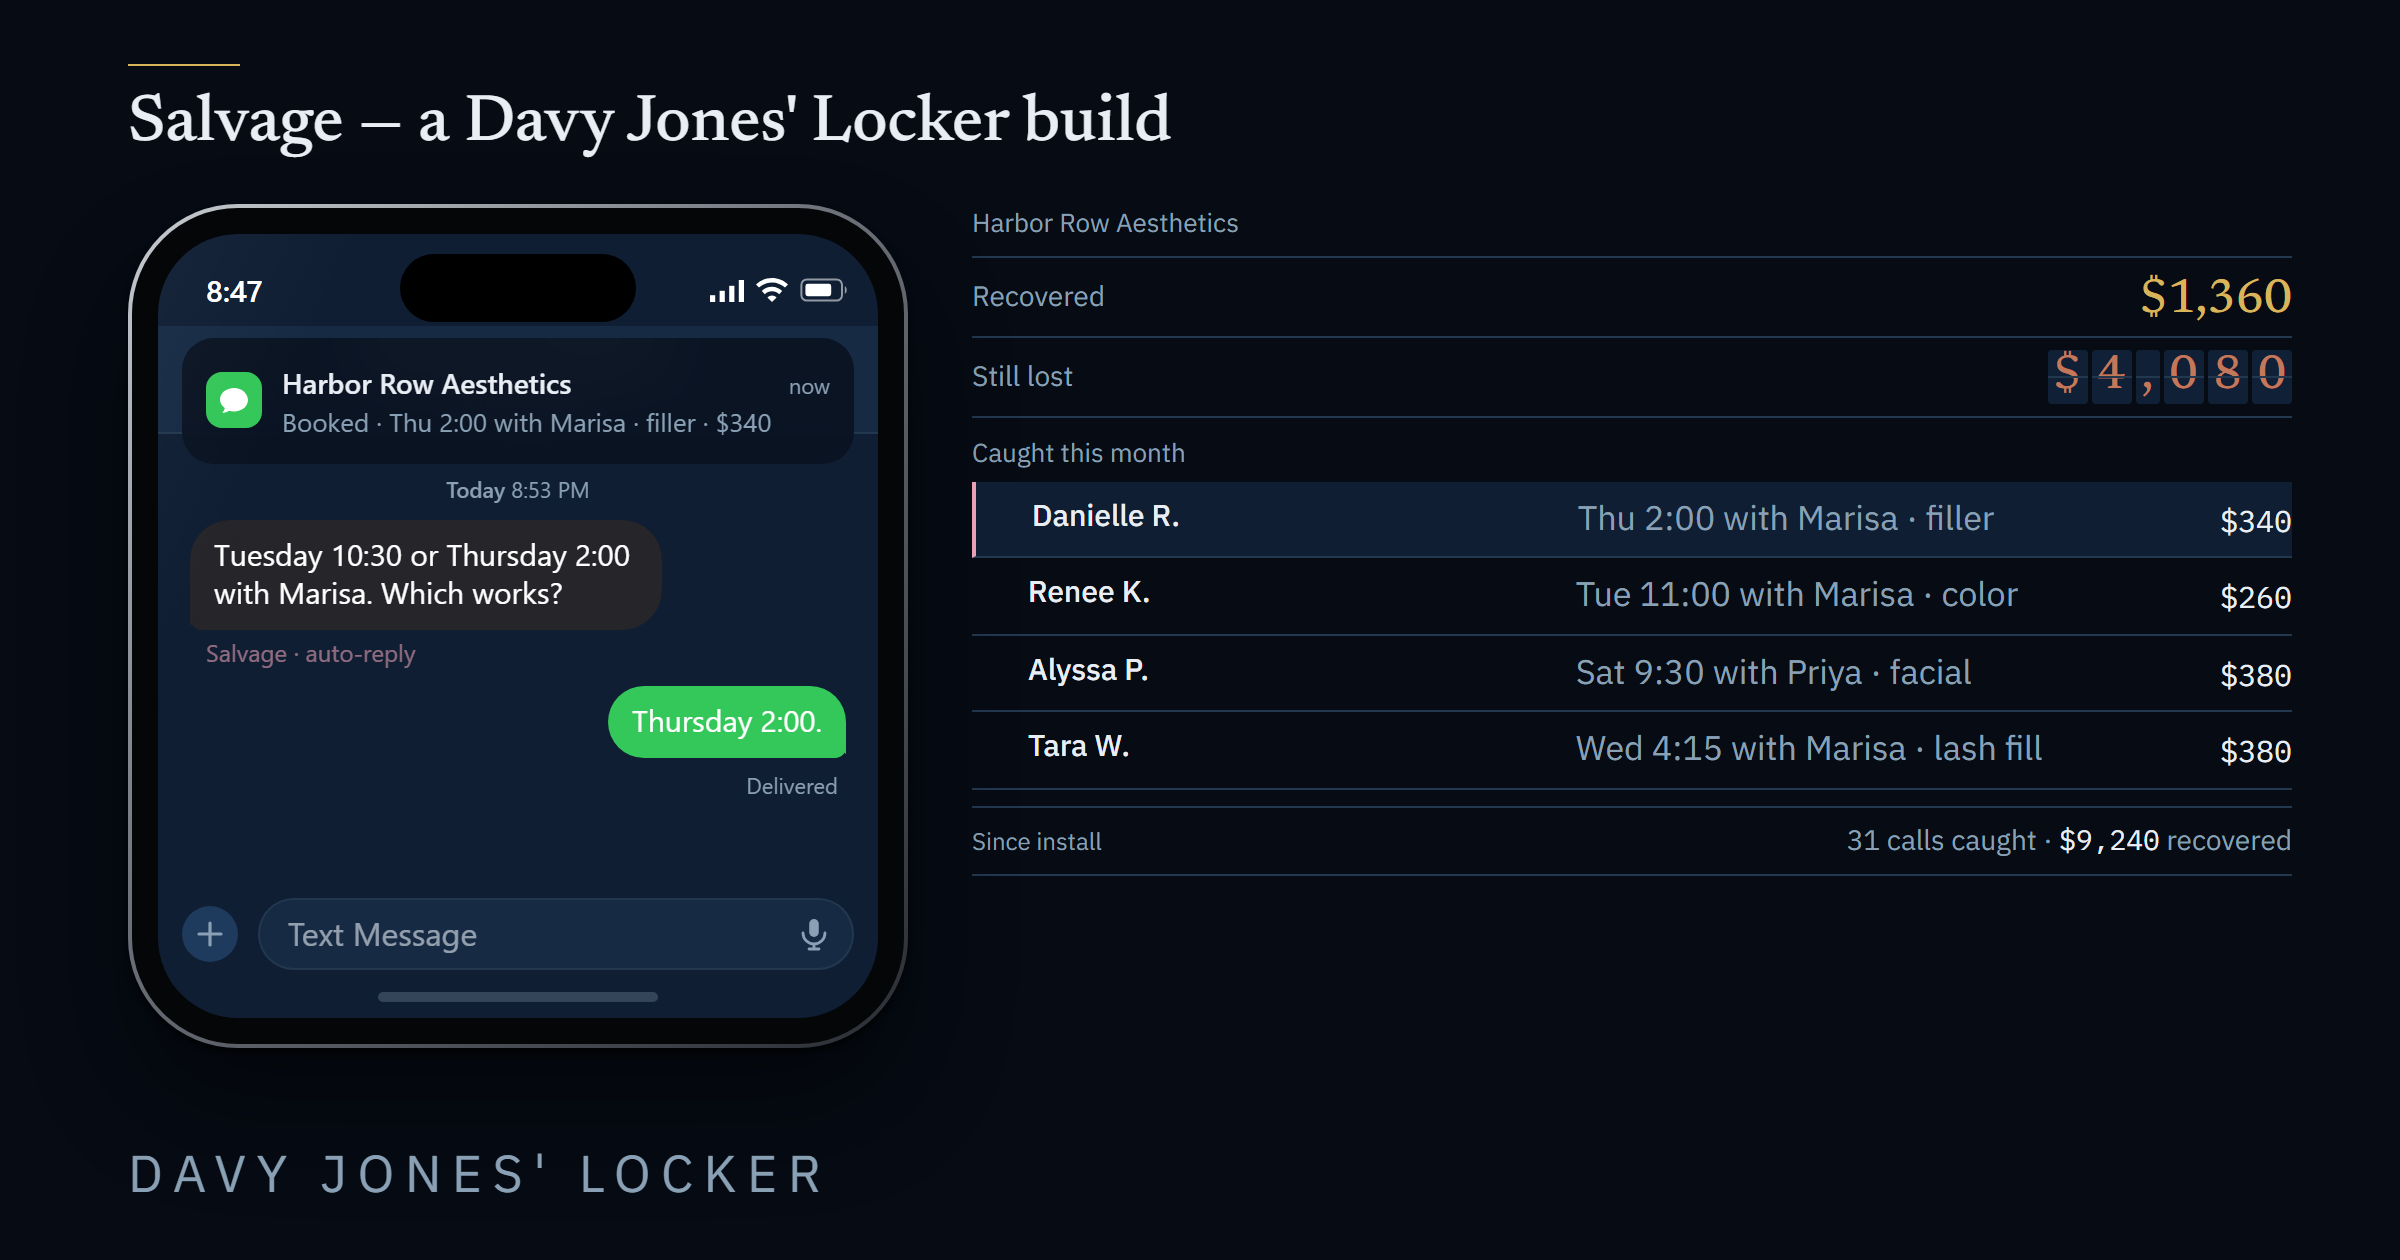
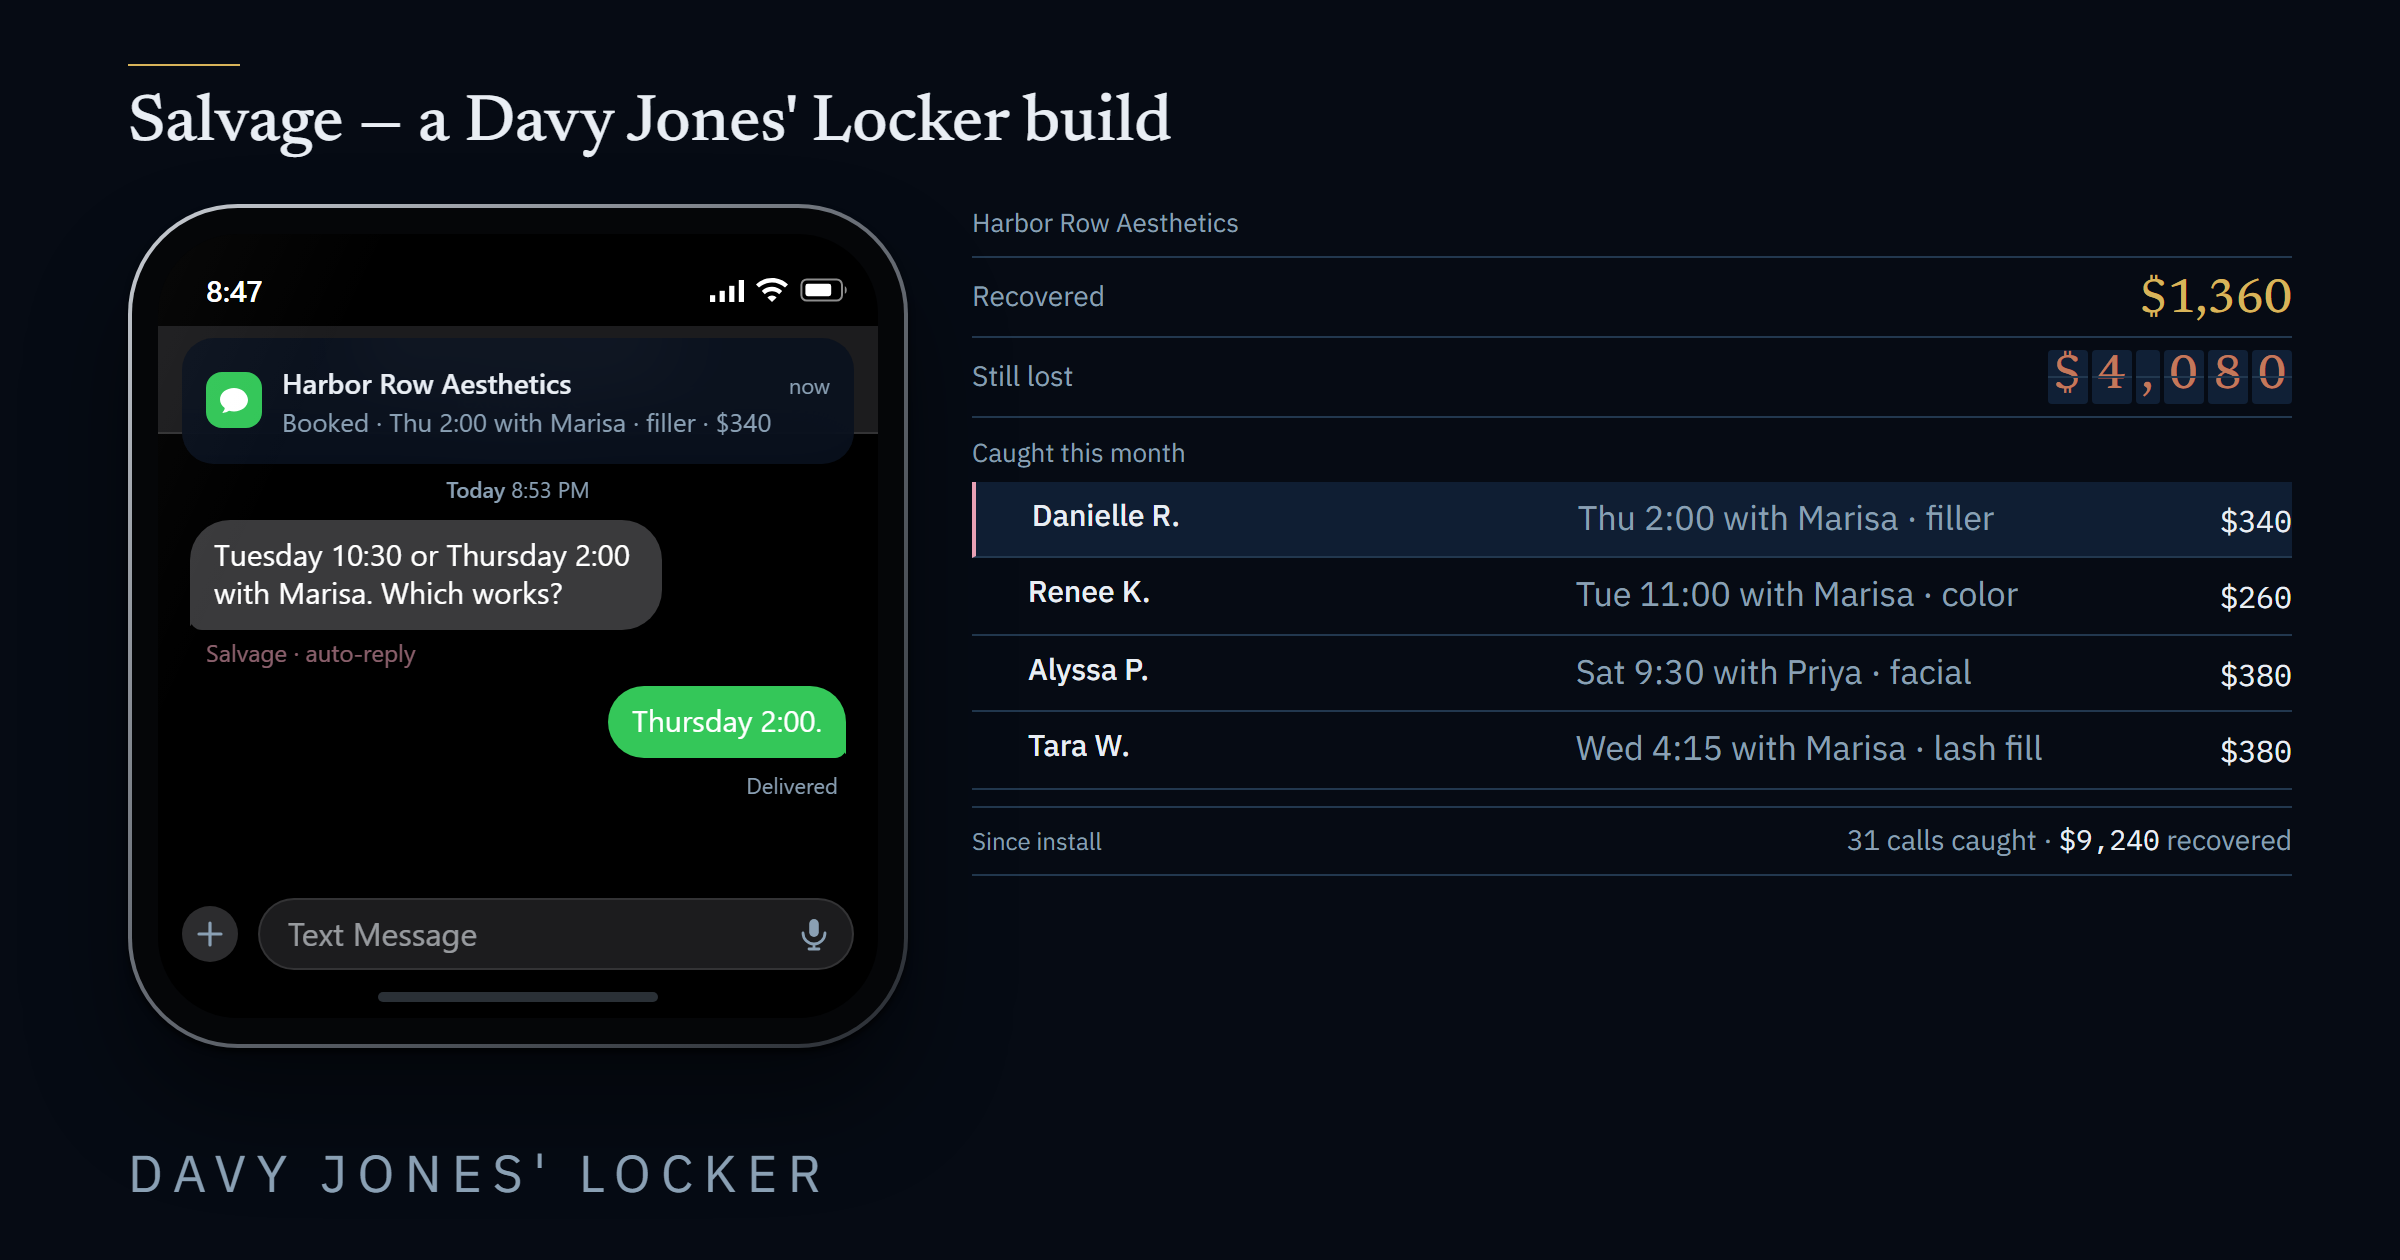
thread ground black, desktop rail cut

Changed region(s): [[0.0625, 0.1857, 0.375, 0.8357]]

diff --git a/components/Phone.tsx b/components/Phone.tsx
@@ -244,7 +244,7 @@ function TypingRow({ index, right }: { index: number; right: boolean }) {
     <div data-typing={index} className={`mt-2 hidden ${right ? "justify-end" : "justify-start"}`}>
       <div
         className={`flex items-center gap-[5px] rounded-[20px] px-3.5 py-3 ${
-          right ? "bg-[#34C759]" : "bg-[#26252A]"
+          right ? "bg-[#34C759]" : "bg-[#3A3A3C]"
         }`}
       >
         {[0, 1, 2].map((d) => (
@@ -512,7 +512,7 @@ export default function Phone({
       </div>
 
       {/* Contact header */}
-      <div data-phone-header className="shrink-0 border-b border-line bg-surface-2 px-6 pb-2 pt-2 text-center">
+      <div data-phone-header className="shrink-0 border-b border-b-white/10 bg-[#1C1C1E] px-6 pb-2 pt-2 text-center">
         <div
           {...(live ? { "data-biz-name": true } : staticId ? { "data-crop-biz": staticId } : {})}
           className={`text-[15px] leading-tight ${headerGhost ? "font-normal italic text-muted" : "font-semibold text-ink"}`}
@@ -627,18 +627,20 @@ export default function Phone({
                       </div>
                     ) : (
                       <div className="flex flex-col items-start">
-                        {/* change 36 (B1): the incoming bubble is iOS
-                            dark-mode gray on white text. The trade accent
-                            is off the bubbles for good — it was the loudest
-                            thing in the screen and the least authentic. */}
+                        {/* change 36 (B1) / change 37: the incoming bubble
+                            is iOS dark-mode gray on white text. #3A3A3C is
+                            systemGray5 dark — the gray Apple pairs with the
+                            black ground this screen now uses; change 36's
+                            #26252A was picked for the navy one and reads
+                            1.38 against black, under gate 105's floor. */}
                         <div
                           {...markEither("data-bubble", "data-s-bubble", "business")}
-                          className={`relative max-w-[72%] rounded-[20px] bg-[#26252A] pb-[9px] pl-3 pr-3 pt-2 text-[15px] leading-[1.27] text-white ${
+                          className={`relative max-w-[72%] rounded-[20px] bg-[#3A3A3C] pb-[9px] pl-3 pr-3 pt-2 text-[15px] leading-[1.27] text-white ${
                             runEnd ? "rounded-bl-[6px]" : ""
                           }`}
                         >
                           {skinText(b.text)}
-                          {runEnd && <BubbleTail side="left" color="#26252A" />}
+                          {runEnd && <BubbleTail side="left" color="#3A3A3C" />}
                         </div>
                         {i === 0 && (
                           <div
@@ -670,12 +672,12 @@ export default function Phone({
       <div data-compose className="flex shrink-0 items-center gap-2.5 px-3 pb-6 pt-1.5 font-phone">
         {/* change 30 (B4): the circled "+" — 28px surface-3 disc, 14px
             stroke plus. */}
-        <span className="flex h-7 w-7 shrink-0 items-center justify-center rounded-full bg-surface-3">
+        <span className="flex h-7 w-7 shrink-0 items-center justify-center rounded-full bg-[#2C2C2E]">
           <svg width="14" height="14" viewBox="0 0 14 14" fill="none" stroke="#8AA0B4" strokeWidth="1.6" strokeLinecap="round" aria-hidden="true">
             <path d="M7 1.5v11M1.5 7h11" />
           </svg>
         </span>
-        <div className="relative flex h-9 min-w-0 flex-1 items-center rounded-[18px] border border-line bg-surface-2 pl-3.5 pr-9">
+        <div className="relative flex h-9 min-w-0 flex-1 items-center rounded-[18px] border border-white/10 bg-[#1C1C1E] pl-3.5 pr-9">
           <span className="truncate text-[16px] text-ink opacity-60">{COPY.chrome.composePlaceholder}</span>
           <svg className="absolute right-2.5" width="18" height="18" viewBox="0 0 18 18" fill="none" stroke="#8AA0B4" strokeWidth="1.4" strokeLinecap="round" aria-hidden="true">
             <rect x="6.6" y="1.5" width="4.8" height="9" rx="2.4" fill="#8AA0B4" stroke="none" />
@@ -764,7 +766,7 @@ export default function Phone({
             <div data-screen-fit="og" className="overflow-hidden rounded-[40px]">
               <div
                 data-phone-screen
-                className="relative flex flex-col overflow-hidden bg-surface font-phone"
+                className="relative flex flex-col overflow-hidden bg-black font-phone"
                 style={{ height: screenMinHeight }}
               >
                 {screenContent}
@@ -835,7 +837,7 @@ export default function Phone({
           <div data-screen-fit="aspect" className="overflow-hidden rounded-[40px]">
             <div
               data-phone-screen
-              className="relative flex flex-col overflow-hidden bg-surface font-phone"
+              className="relative flex flex-col overflow-hidden bg-black font-phone"
             >
               {screenContent}
             </div>

diff --git a/components/Demo.tsx b/components/Demo.tsx
@@ -1951,13 +1951,6 @@ export default function Demo({
     name ? `Show me Salvage for ${name}` : "Show me Salvage",
   )}`;
 
-  /* change 31 (1) / change 36 (A1): ONE dot on the page, and now ONE
-     state. 6px, teal at 40%, no active fill — a position indicator does
-     not need to compete with the section it is indexing. The section-3
-     switcher dots are gone entirely (A6); the tabs are the switcher. */
-  const pagerDot = () =>
-    "h-1.5 w-1.5 rounded-[2px] border border-teal/40 bg-transparent outline-none focus-visible:outline-2 focus-visible:outline-teal focus-visible:outline-offset-2";
-
   return (
     /* The pager (A1): the ONLY vertical scroller on the page. html/body are
        overflow:hidden; the snap properties live in globals.css. */
@@ -2685,39 +2678,20 @@ export default function Demo({
         </div>
       )}
 
-      {/* change 36 (A1): the rail is GONE on mobile — the sections snap,
-          and four dots plus a chevron on a 390px screen were four more
-          nouns than the gesture needed. Desktop keeps the four squares as
-          a quiet index. */}
-      <div
-        data-rail
-        data-chrome="rail"
-        className="fixed right-10 top-1/2 z-40 hidden -translate-y-1/2 flex-col items-center gap-4 min-[1100px]:flex"
-      >
-        <div className="my-1 flex flex-col gap-3">
-          {SECTIONS.map((s, i) => (
-            <button
-              key={s.id}
-              type="button"
-              data-pager-dot
-              data-active={activeSection === i ? "true" : "false"}
-              aria-label={`${COPY.a11y.dot} ${i + 1}`}
-              onClick={() => goSection(i)}
-              className={pagerDot()}
-            />
-          ))}
-        </div>
-      </div>
+      {/* change 36 (A1) / change 37: the rail is gone at EVERY width. It
+          indexed four sections without indicating anything — no active
+          fill, on a page that snaps — and mobile had already proved
+          nothing was missing without it. */}
 
-      {/* The caret is the one piece of wayfinding at every width: bottom
-          centre on mobile, under the rail on desktop. */}
+      {/* The caret is the one piece of wayfinding, bottom centre at every
+          width. */}
       <button
         data-rail-next
         data-chrome="caret"
         type="button"
         onClick={() => goSection(activeSection + 1)}
         aria-label={COPY.a11y.next}
-        className={`fixed bottom-2 left-1/2 z-40 flex h-8 w-5 -translate-x-1/2 items-center justify-center text-teal outline-none transition-opacity hover:opacity-80 focus-visible:ring-2 focus-visible:ring-teal-bright min-[1100px]:bottom-auto min-[1100px]:left-auto min-[1100px]:right-10 min-[1100px]:top-[calc(50%+52px)] min-[1100px]:translate-x-0 ${
+        className={`fixed bottom-2 left-1/2 z-40 flex h-8 w-5 -translate-x-1/2 items-center justify-center text-teal outline-none transition-opacity hover:opacity-80 focus-visible:ring-2 focus-visible:ring-teal-bright ${
           activeSection >= SECTIONS.length - 1 ? "hidden" : ""
         }`}
       >

diff --git a/app/globals.css b/app/globals.css
@@ -242,11 +242,13 @@ body {
 /* change 19 (B1): +40px of reserve — the mobile caption block sits above
    the device inside the same column. change 36 (C1/A1): +52 more — the beat
    strip is a new row under the phone, and the caret moved to the bottom
-   centre where the settled controls used to end. */
+   centre where the settled controls used to end. change 37: +24 more — with
+   the rail cut the caret is the only fixed control, and it was sitting on
+   top of the "Your side" button. */
 @media (max-width: 1099.98px) {
   [data-section="call"] [data-phone-device] {
-    max-width: min(390px, calc((100vh - 306px) * 390 / 810));
-    max-width: min(390px, calc((100dvh - 306px) * 390 / 810));
+    max-width: min(390px, calc((100vh - 330px) * 390 / 810));
+    max-width: min(390px, calc((100dvh - 330px) * 390 / 810));
     /* change 33 (B2): CENTERED in the content column. The slab is a
        section band at the viewport's left edge now (B1), so the device no
        longer has to buy folio clearance with a gutter bleed. */
@@ -258,8 +260,8 @@ body {
    clears the Replay control band. */
 @media (max-width: 1099.98px) and (max-height: 720px) {
   [data-section="call"] [data-phone-device] {
-    max-width: min(390px, calc((100vh - 362px) * 390 / 810));
-    max-width: min(390px, calc((100dvh - 362px) * 390 / 810));
+    max-width: min(390px, calc((100vh - 386px) * 390 / 810));
+    max-width: min(390px, calc((100dvh - 386px) * 390 / 810));
   }
 }
 

diff --git a/lib/client.config.ts b/lib/client.config.ts
@@ -156,7 +156,7 @@ export const COPY = {
   tabs: { salon: "Salon", home: "Home", dental: "Dental", other: "Other" },
   a11y: {
     pager: "Demo sections",
-    dot: "Go to section",
+    // change 37: a11y.dot retired with the rail squares it labelled.
     panelDot: "Go to panel",
     share: "Copy demo link",
     next: "Next section",
